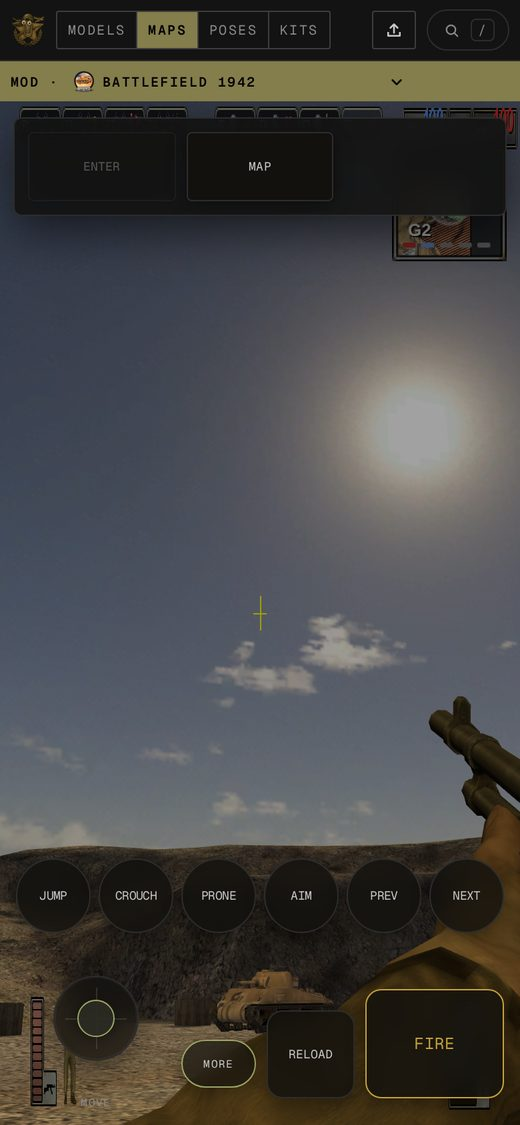
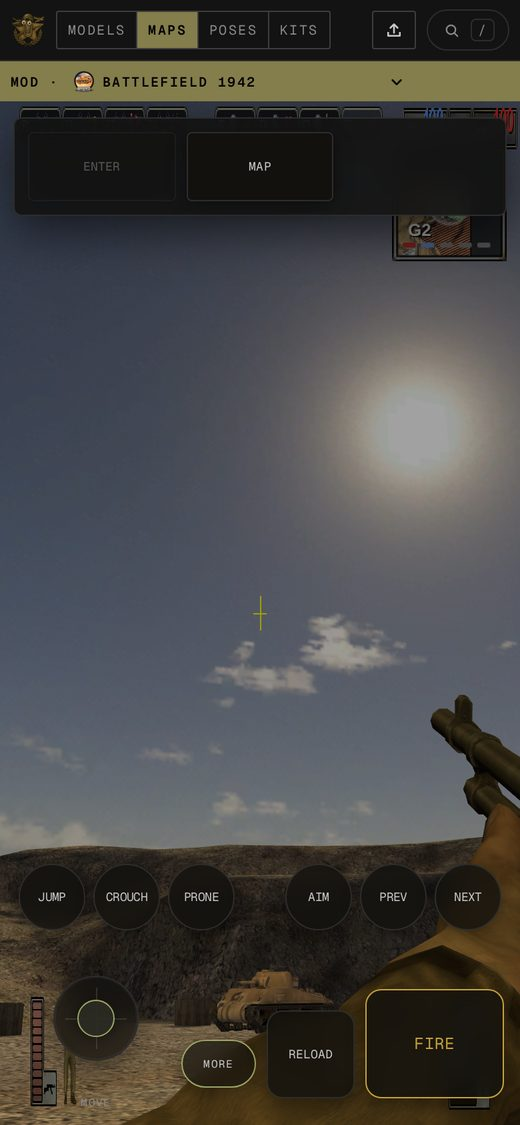
fix(viewer): the touch HUD was a bar across the middle, not an open screen
The tenth pass put one row of six buttons across the middle and called it an
open screen. It was not. The row crossed the full width, so the left and right
margins were covered at that height, the centre of the screen had a bar through
it, and the verdict from a phone was that the HUD had taken over the screen and
there was no room for the game.

Same six controls, over half the width: two short rows of three, one per thumb,
at the same height and hugging the sides.

- Left row: JUMP, CROUCH, PRONE. Right row: AIM, PREV, NEXT. Three 50 px
  targets each with 6 px between neighbours, so a thumb still never travels
  more than one button width, and 38 px of centre corridor is left between them.
- The ring, the MORE tab, RELOAD and FIRE are unchanged in the bottom row, so
  each control is still under the thumb that presses it and RELOAD is still
  against the trigger.
- `.mobile-band` became `.mobile-row` with `.mobile-row-left` and
  `.mobile-row-right`. No touch-controls.js change: the ids are the same.

What is left is the point of the exercise, so the probe now asserts the CLEAR
claims rather than the buttons' own boxes, which is the half that was missing:
the top of the stage is clear of buttons for 572 px of 768 (74% of the height),
a 38 px centre corridor is clear at button height, both margins are clear from
the top down to their own row, nothing sits in the middle third of the screen
above the bottom row, and the buttons are 14% of the stage (86% open).
[…]

diff --git a/tools/bf1942-models/viewer/map.css b/tools/bf1942-models/viewer/map.css
@@ -492,11 +492,13 @@ a { color: var(--accent); }
    thumb naturally rests. That is the tenth pass's answer to "I have to move
    the view, then fire": aiming is not a place you have to put your thumb, it
    is everywhere the button is not.
-   Three places, and nothing else:
+   Four places, and nothing else:
      the MOVE ring at the bottom-left corner (112 px hit box, 64 px visible),
-     one band of six buttons across the middle, 6 px between neighbours, so a
-     thumb never travels more than one button width,
-     the right corner with RELOAD against FIRE, and MORE on the bottom centre.
+     a short row of three above it on the left (JUMP, CROUCH, PRONE),
+     a short row of three above the corner on the right (AIM, PREV, NEXT),
+     the bottom row with RELOAD against FIRE and the MORE tab in between.
+   Nothing crosses the middle, and nothing reaches the top two thirds, so the
+   game is what you are looking at.
    z order, bottom to top: the look zone (9), the sheet's scrim (10), the
    buttons (11), the move ring (12). A tap with the sheet open closes the
    sheet instead of turning the camera, and the ring is never under it. */
@@ -601,28 +603,30 @@ a { color: var(--accent); }
   white-space: nowrap;
   pointer-events: none;
 }
-/* The band: six buttons in one row across the middle, equal widths so the
-   gaps are equal too. It sits above the ring's 112 px hit box, which ends 134
-   px up the left edge, and above the right corner's 102 px. `pointer-events:
-   none` on the row and `auto` on the buttons, so the 6 px between two
-   neighbours falls through and pans like any other open screen. */
-.mobile-band {
+/* Two short rows of three, one per thumb, at the same height above the bottom
+   row. They hug the sides and stop well short of the middle, so the centre
+   corridor and the whole upper screen stay clear for the game and for
+   dragging. 50 px targets with 6 px between neighbours, so a thumb never
+   travels more than one button width. `pointer-events: none` on the row and
+   `auto` on the buttons, so the gaps fall through and pan like any other open
+   screen. */
+.mobile-row {
   position: absolute;
-  left: 12px;
-  right: 12px;
-  bottom: 144px;
+  bottom: 146px;
   display: flex;
   align-items: stretch;
   gap: 6px;
   pointer-events: none;
 }
+.mobile-row-left { left: 14px; }
+.mobile-row-right { right: 14px; }
 .mobile-band-btn {
-  flex: 1 1 0;
-  min-width: 0;
-  height: 56px;
+  flex: 0 0 auto;
+  width: 50px;
+  height: 50px;
   padding: 0;
   border: 1px solid var(--line);
-  border-radius: 28px;
+  border-radius: 25px;
   background: rgba(18, 17, 14, 0.82);
   backdrop-filter: blur(8px);
   -webkit-backdrop-filter: blur(8px);

diff --git a/tools/bf1942-models/viewer/map.html b/tools/bf1942-models/viewer/map.html
@@ -70,9 +70,9 @@
          for the right), the MORE tab on the bottom centre, and RELOAD beside
          FIRE at the bottom-right because reloading is common and belongs
          against the trigger.
-       The band is one row of six with 6 px between neighbours, so a thumb
-       never travels more than one button width, and the middle of the screen
-       is buttons rather than dead space. -->
+       Two short rows of three, one per thumb, at the same height, hugging the
+       sides: nothing crosses the middle, nothing reaches the top of the screen,
+       and the game stays what you are looking at. -->
   <!-- The look zone is the WHOLE stage under the buttons (z 9 against their
        11), which leaves the margins, the top and the middle all live. It
        steps aside in free roam (the free camera drags on the canvas), while
@@ -93,15 +93,19 @@
        sheet instead of turning the camera. -->
   <div id="mobile-more-scrim" hidden></div>
   <div id="mobile-controls" hidden>
-    <!-- The band: six buttons in one row across the middle. Each is the retail
-         binding and nothing else, because a hold and a toggle cannot share
-         one button: JUMP is `c_PIAction` (Space), CROUCH holds `c_PICrouch`
+    <!-- Two short rows of three, one per thumb, hugging the sides at the same
+         height. Not one bar across the middle: that ate the whole width and
+         left the centre of the screen with nothing in it. Each is the retail
+         binding and nothing else, because a hold and a toggle cannot share one
+         button: JUMP is `c_PIAction` (Space), CROUCH holds `c_PICrouch`
          (LeftCtrl), PRONE toggles `c_PILie` (Z), AIM holds `c_PIAltFire`, and
          the pair steps and raises the kit's weapons. -->
-    <div class="mobile-band">
+    <div class="mobile-row mobile-row-left">
       <button type="button" id="mobile-jump-btn" class="mobile-band-btn" aria-label="Jump" hidden>JUMP</button>
       <button type="button" id="mobile-crouch-btn" class="mobile-band-btn" aria-label="Crouch, hold" hidden>CROUCH</button>
       <button type="button" id="mobile-prone-btn" class="mobile-band-btn prone-btn" aria-label="Go prone, tap again to stand" hidden>PRONE</button>
+    </div>
+    <div class="mobile-row mobile-row-right">
       <button type="button" id="mobile-aim-btn" class="mobile-band-btn" aria-label="Aim, hold">AIM</button>
       <button type="button" id="mobile-wprev-btn" class="mobile-band-btn" aria-label="Previous weapon" hidden>PREV</button>
       <button type="button" id="mobile-wnext-btn" class="mobile-band-btn" aria-label="Next weapon" hidden>NEXT</button>

diff --git a/features/mobile-four-finger-controls/README.md b/features/mobile-four-finger-controls/README.md
@@ -352,40 +352,54 @@ stage UNDER the buttons, so a touch that starts anywhere that is not a button is
 the camera, and the margins, the top and the middle all steer equally. What pays
 for it is the buttons being few, small and low.
 
-The whole HUD is three things and nothing else, measured on a 390x844 phone
+The whole HUD is four things and nothing else, measured on a 390x844 phone
 (`features/mobile-four-finger-controls/hud-play.jpg`):
 
 | Where | What | Measured |
 | --- | --- | --- |
 | bottom-left corner | the MOVE ring | 112 px hit box, 64 px visible |
+| left side, 572 px up | JUMP, CROUCH, PRONE | three 50 px targets, 6 px apart |
+| right side, 572 px up | AIM, PREV, NEXT | three 50 px targets, 6 px apart |
 | bottom-centre | the MORE tab | 56x36 at 28 px up |
 | bottom-right corner | RELOAD against FIRE | 66x66 against 104x82 |
-| one row across the middle | JUMP, CROUCH, PRONE, AIM, PREV, NEXT | six equal 56 px targets, 6 px apart |
 
-That row is the answer to the dead space. It is one horizontal line of six equal
-targets, so a thumb never travels more than one button width, and the middle of
-the screen is buttons rather than the gap between two thumbs. The three left of
-centre are the left thumb's (JUMP, CROUCH, PRONE) and the three right of centre
-are the right thumb's (AIM, PREV, NEXT), which puts each control under the thumb
-that presses it. RELOAD is the button next to FIRE because reloading is common,
-and MORE moved to the bottom row between the ring and the corner so either
-thumb can roll onto it.
+Two short rows of three, one per thumb, at the same height and hugging the
+sides. A thumb never travels more than one button width, each control sits under
+the thumb that presses it, and 38 px of centre corridor is left between the two
+rows. RELOAD is the button next to FIRE because reloading is common, and MORE
+sits in the bottom row between the ring and the corner.
 
-Measured coverage: the buttons are 15% of the stage. The other 85% is open
-screen, so a finger can be anywhere.
+What that leaves is the point of the whole exercise, so the probe asserts it
+rather than the buttons:
+
+| Claim | Measured |
+| --- | --- |
+| the top of the screen is completely clear of buttons | 572 px of 768, so 74% of the height |
+| a centre corridor at button height | 38 px (x 176 to 214) |
+| the left margin is clear from the top down to its row | x 0 to 14 clear at button height |
+| the right margin likewise | x 376 to 390 |
+| buttons as a share of the stage | 14% covered, 86% open |
+
+The tenth pass put ONE row of six across the middle and called the result an
+open screen. It was not: the row crossed the full width, so the left and right
+margins were covered at that height and the centre of the screen had a bar
+through it. Two rows of three that stop short of each other is the same set of
+controls over half the width.
 
 One consequence of making the zone the whole stage: a finger lying on open glass
 would walk the view off its own micro drift. `MOBILE_LOOK_DEAD` (8 px) comes
 first, the same reason the ring and the drag off FIRE have one.
 
-Verified with the stub-DOM smoke (70 claims) and the live phone probe (49
+Verified with the stub-DOM smoke (70 claims) and the live phone probe (54
 claims). On the live page: the look zone measures the whole stage
-(390x768 of 390x768), the six band targets are 56 px each with 6 px between
-neighbours and 6 px between the ring, MORE and RELOAD, a drag on the RIGHT
-margin, on the LEFT margin, at the TOP of the screen and just above the band all
+(390x768 of 390x768), the six targets are 50 px each with 6 px between
+neighbours and 8 px between the ring, MORE and RELOAD, a drag on the RIGHT
+margin, on the LEFT margin, at the TOP of the screen and just above the rows all
 steer by the same 0.54 rad for the same 40 px of finger, a finger resting on
-open glass moves the view 0.0000 rad, and the tenth pass's stance loop still
-reads (PRONE prone then stand, a 900 ms rest on CROUCH still a crouch).
+open glass moves the view 0.0000 rad, and the stance loop still reads (PRONE
+prone then stand, a 900 ms rest on CROUCH still a crouch). The viewer suite runs
+4,554 with the same five pre-existing failures, and the nine suites that read
+`map.html` through `page_source` pass 216.
 
 One probe lesson from this pass, and it is a trap: a CDP touch point is a
 circle of `radiusX: 8`, so a probe press 4 px from a button lands ON that
